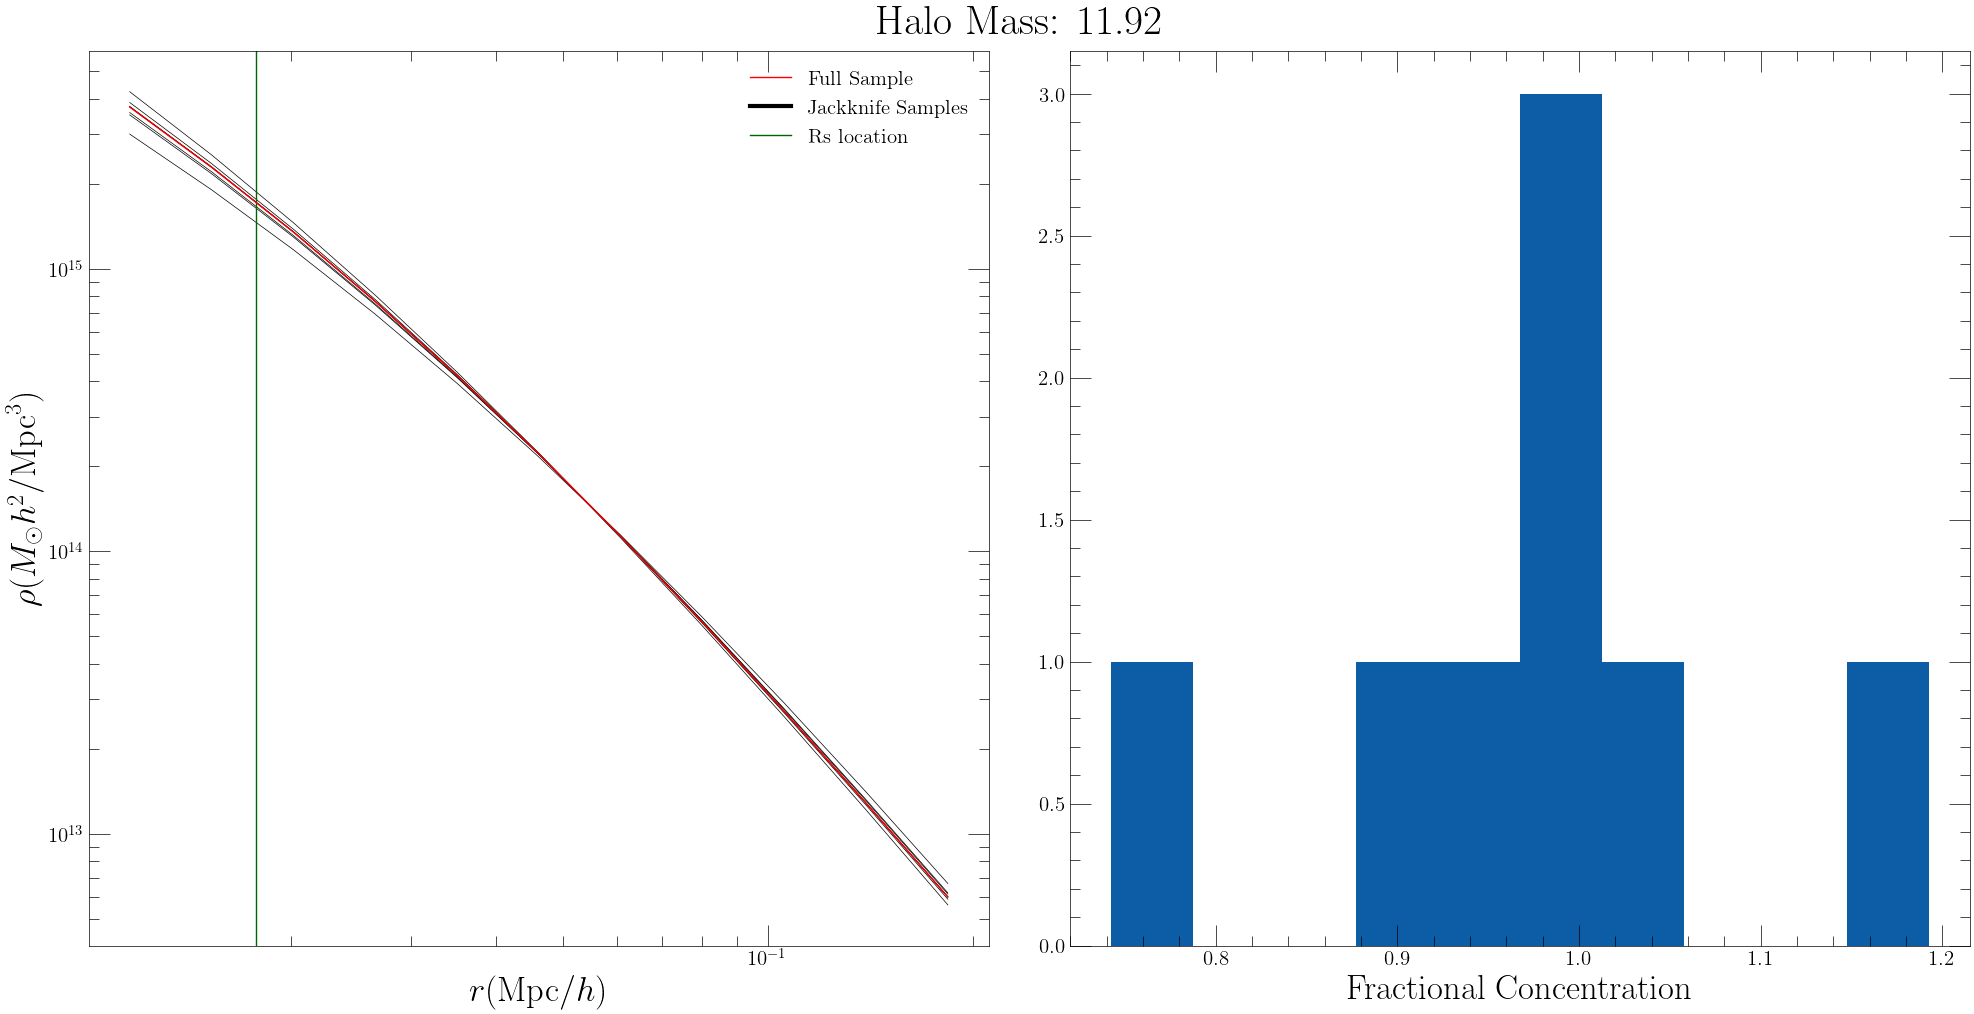
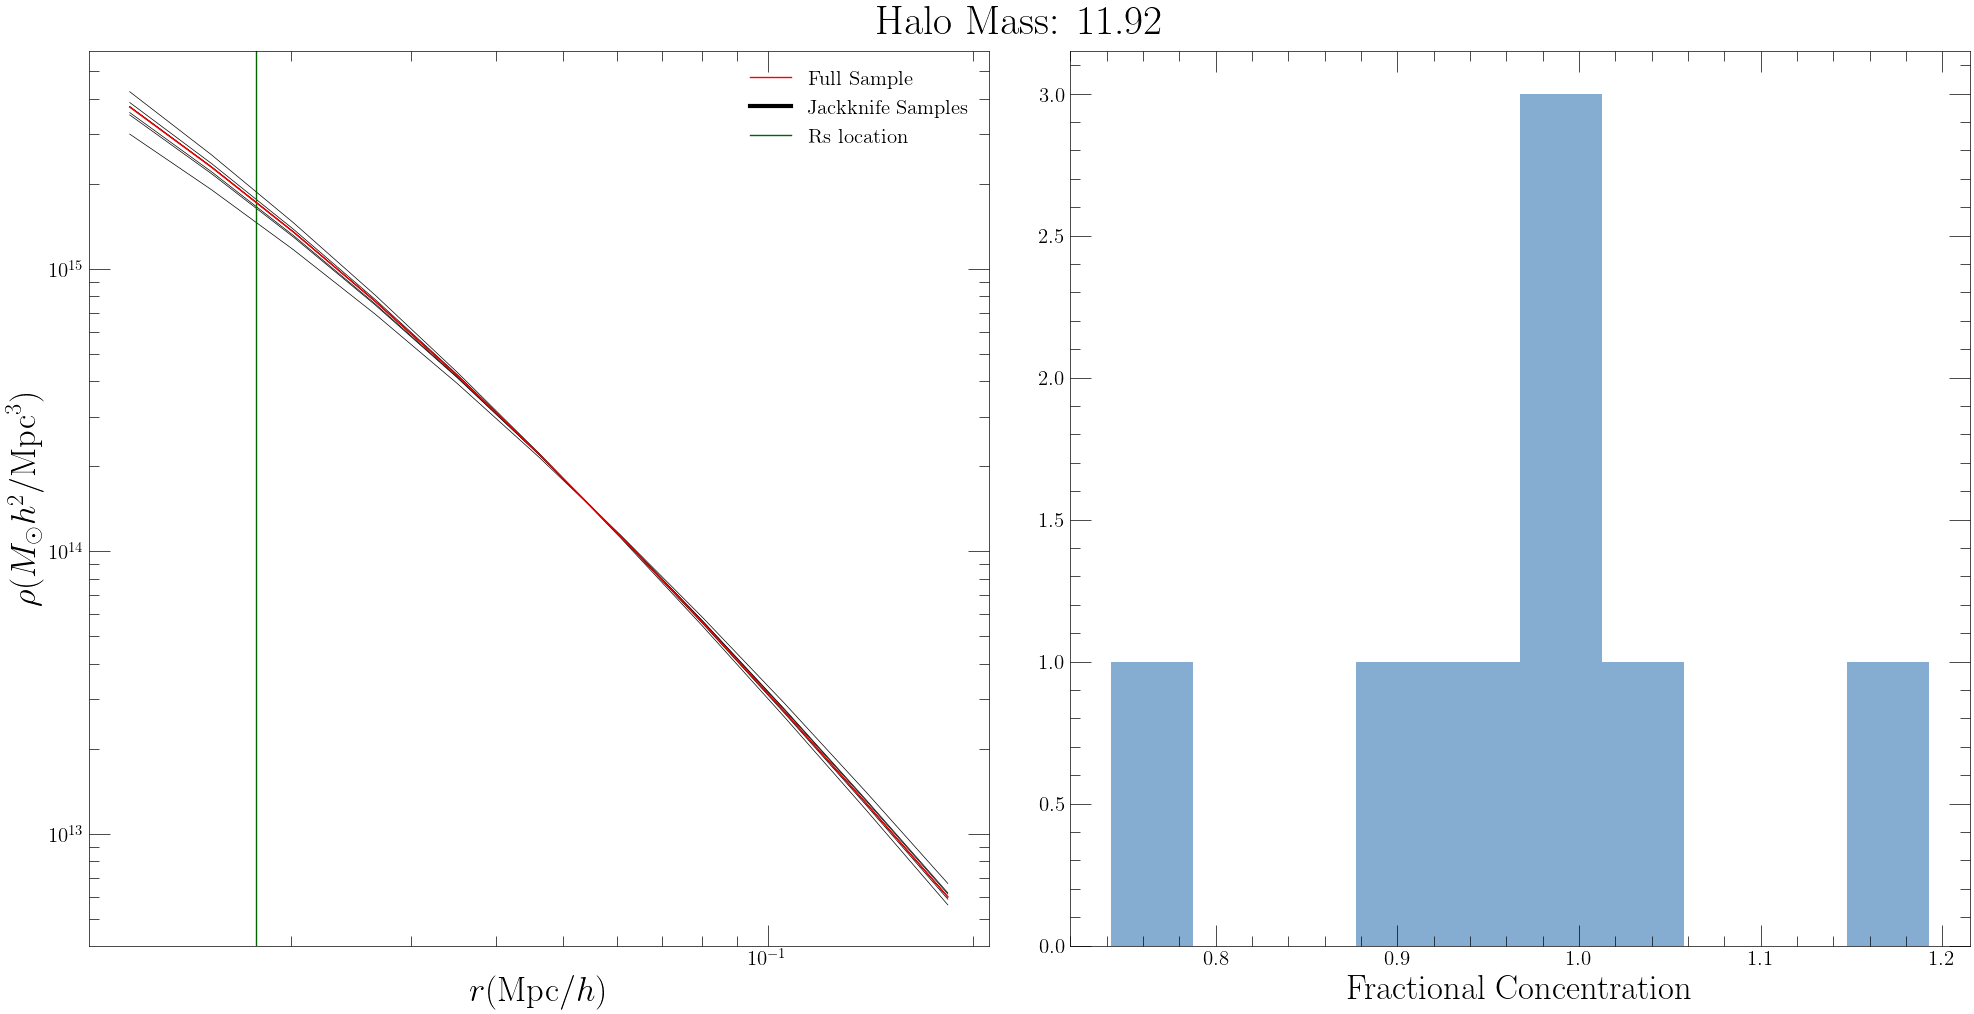
aesthetic changes

Changed region(s): [[0.6798, 0.0917, 0.8652, 0.9477], [0.9271, 0.642, 0.9889, 0.9477], [0.5562, 0.642, 0.618, 0.9477]]

diff --git a/Bolshoi/jack_frac_disp.py b/Bolshoi/jack_frac_disp.py
@@ -67,7 +67,7 @@ for loc in locations:
     ax1.set_ylabel(r'$\rho (M_{\odot} h^2 / \mathrm{Mpc}^3)$')
     ax1.legend(loc='upper right')
 
-    ax2.hist(opts[1:]/opts[1])
+    ax2.hist(opts[1:]/opts[1], alpha=0.5)
     ax2.set_xlabel('Fractional Concentration')
 
     plt.suptitle(f'Halo Mass: {np.log10(M):.2f}', y=1.002)
